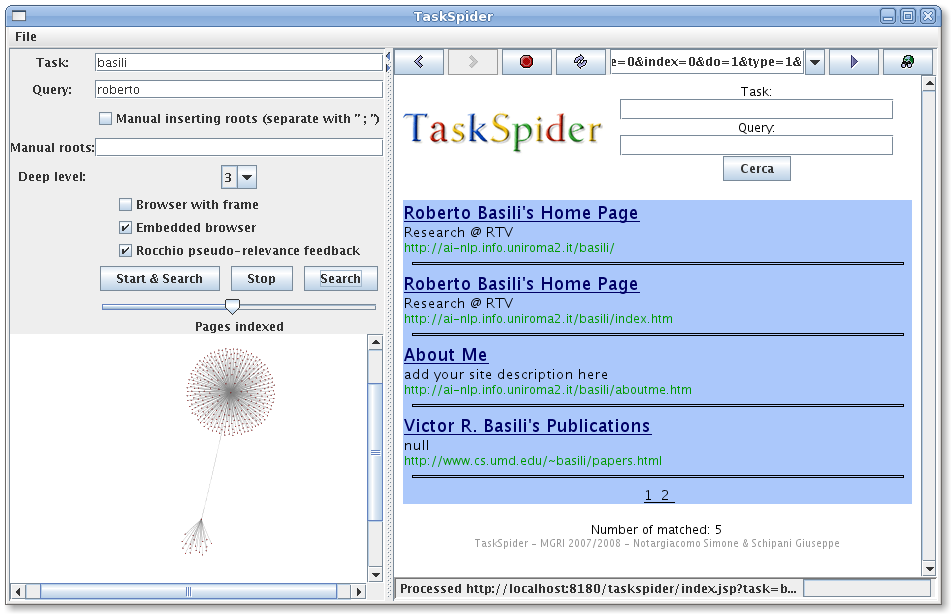
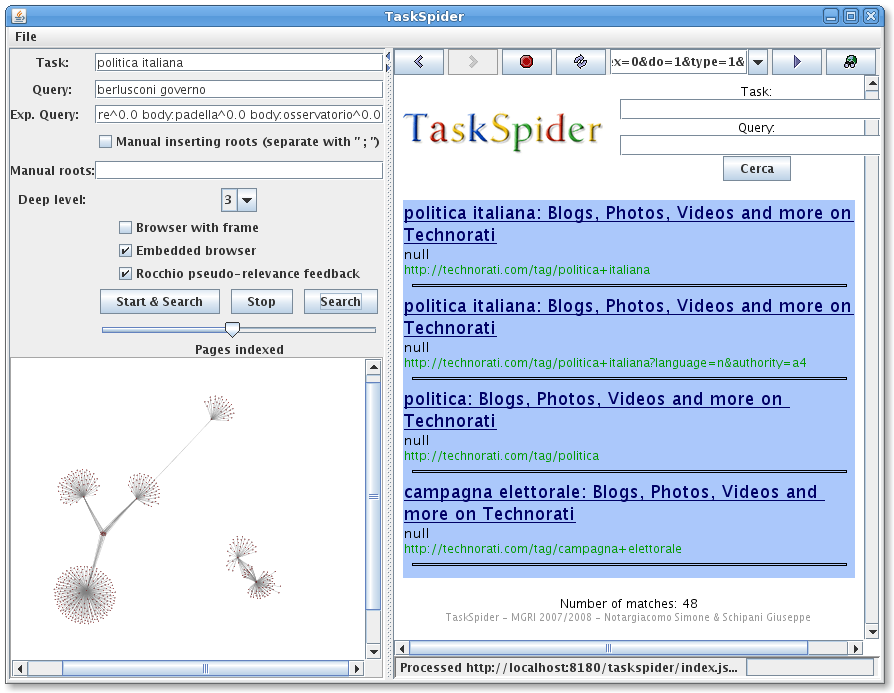
bugs fix, aggiornamento relazione

diff --git a/TaskSpider/docs/relazione/cap/retrival.tex b/TaskSpider/docs/relazione/cap/retrival.tex
@@ -64,9 +64,14 @@ Debug.println("Search with expanded query hits: "+result.length(), 1);
 Per evitare di incorrere in problemi come quelli appena citati si è realizzato un altro modulo di espansione query utilizzando il sistema di \var{Pseudo-relevance feedback Rocchio}. Tale metodo funziona nel seguente modo:
 \begin{enumerate}
 \item si prende la query desiderata dall'utente e si effettua la ricerca nell'indice;
-\item con i risultati ottenuti si effettua lo pseudo-relevance feedback considerando rilevanti i primi 10 documenti;
-\item si prendono i termini dei documenti rilevanti e si pesano secondo l'algoritmo;
-\item si aggiungono i termini pesati alla precedente query;
+\item con i risultati ottenuti si effettua lo pseudo-relevance feedback considerando rilevanti i primi N documenti ed irrilevanti gli ultimi M;
+\item si prendono i termini dei documenti rilevanti e si aggiungono alla query originale;
+\item si sottraggono i termini dei documenti non rilevanti;
 \item viene rieseguita una nuova ricerca con la nuova query.
 \end{enumerate}
-Con tale metodo è risultato un aumento della precisione nei documenti ritrovati, infatti a differenza del metodo Wordnet in questo caso è molto più difficile incorrere in ambiguità delle parole. Un punto a favore di Wordnet può andare sotto l'aspetto della espressività della query, questo perchè con il sistema \var{Rocchio} realizzato non possono essere fatte espansioni di query che specificano il campo (``URL'', ``title'' ecc.) del termine. Per evitare un'elevata complessità computazionale è stata impostata una espansione che considera soltanto il campo ``body''. Tale vincolo ha senso anche sotto altri aspetti, come il fatto che gran parte del contenuto informativo di una pagina web è proprio nel ``body''.
+La formula utilizzata per l'espansione è la seguente:
+$$
+\overrightarrow{q}_{m} = \alpha\overrightarrow{q} + \dfrac{\beta}{\vert D_{r}\vert}\sum_{\forall\overrightarrow{d_{j}}\in D_{r}}\overrightarrow{d_{j}} - \dfrac{\gamma}{\vert D_{n}\vert}\sum_{\forall\overrightarrow{d_{j}}\in D_{n}}\overrightarrow{d_{j}}
+$$
+In precedenza è stata implementata una variante di \var{Rocchio} aggiungendo ai nuovi termini della query il loro peso \var{tf-idf}; tale funzionalità è stata in seguito rimossa per attenersi alla formula originale.
+Il metodo originale ha consentito un aumento della precisione nei documenti ritrovati, infatti a differenza del metodo \var{Wordnet} è molto più difficile incorrere in ambiguità delle parole. Un punto a favore di \var{Wordnet} può andare sotto l'aspetto della espressività della query, questo perchè con il sistema \var{Rocchio} realizzato non possono essere fatte espansioni di query che specificano il campo (``URL'', ``title'' ecc.) del termine. Per evitare un'elevata complessità computazionale è stata impostata una espansione che considera soltanto il campo ``body''. Tale vincolo ha senso anche sotto altri aspetti, come il fatto che gran parte del contenuto informativo di una pagina web è proprio nel ``body''.

diff --git a/TaskSpider/src/taskspider/view/gui/MainFrame.java b/TaskSpider/src/taskspider/view/gui/MainFrame.java
@@ -179,13 +179,13 @@ public class MainFrame extends JFrame {
 								getGraph(); 
 								if(browserCheck.isSelected()) {
 									try {
-										htmlPanel.navigate(controller.getQueryString(taskField.getText(), queryField.getText(), frameCheck.isSelected() ? "1" : "0", typeCheck.isSelected() ? "1" : "0"));
+										htmlPanel.navigate(controller.getQueryString(taskField.getText(), queryField.getText(), frameCheck.isSelected() ? "1" : "0", typeCheck.isSelected() ? "1" : "0", "normal"));
 									} catch (MalformedURLException e1) {
 										e1.printStackTrace();
 									}
 								}
 								else {
-									BrowserControl.displayURL("", controller.getQueryString(taskField.getText(), queryField.getText(), frameCheck.isSelected() ? "1" : "0", typeCheck.isSelected() ? "1" : "0"));
+									BrowserControl.displayURL("", controller.getQueryString(taskField.getText(), queryField.getText(), frameCheck.isSelected() ? "1" : "0", typeCheck.isSelected() ? "1" : "0", "normal"));
 								}
 							}
 						}
@@ -617,17 +617,25 @@ public class MainFrame extends JFrame {
 						System.out.println("RESULT EXP: "+controller.search(taskField.getText(), getExpQueryField().getText(), -1));
 					else
 						System.out.println("RESULT: "+controller.search(taskField.getText(), queryField.getText(), typeCheck.isSelected() ? TermSearcher.ROCCHIO : TermSearcher.WORDNET));
-					getExpQueryField().setText(controller.getExpandedQuery().toString());
+					
 					if(browserCheck.isSelected()) {
 						try {
-							htmlPanel.navigate(controller.getQueryString(taskField.getText(), queryField.getText(), frameCheck.isSelected() ? "1" : "0", typeCheck.isSelected() ? "1" : "0"));
+							if(!getExpQueryField().getText().equals(""))
+								htmlPanel.navigate(controller.getQueryString(taskField.getText(), getExpQueryField().getText(), frameCheck.isSelected() ? "1" : "0", typeCheck.isSelected() ? "1" : "0", "expanded"));
+							else
+								htmlPanel.navigate(controller.getQueryString(taskField.getText(), queryField.getText(), frameCheck.isSelected() ? "1" : "0", typeCheck.isSelected() ? "1" : "0", "normal"));
 						} catch (MalformedURLException e1) {
 							e1.printStackTrace();
 						}
 					}
 					else {
-						BrowserControl.displayURL("", controller.getQueryString(taskField.getText(), queryField.getText(), frameCheck.isSelected() ? "1" : "0", typeCheck.isSelected() ? "1" : "0"));
+						if(!getExpQueryField().getText().equals(""))
+							BrowserControl.displayURL("", controller.getQueryString(taskField.getText(), getExpQueryField().getText(), frameCheck.isSelected() ? "1" : "0", typeCheck.isSelected() ? "1" : "0", "expanded"));
+						else
+							BrowserControl.displayURL("", controller.getQueryString(taskField.getText(), queryField.getText(), frameCheck.isSelected() ? "1" : "0", typeCheck.isSelected() ? "1" : "0", "normal"));
 					}
+					
+					getExpQueryField().setText(controller.getExpandedQuery().toString());
 					
 				}
 			});

diff --git a/TaskSpider/src/taskspider/bean/TaskBean.java b/TaskSpider/src/taskspider/bean/TaskBean.java
@@ -31,10 +31,9 @@ public class TaskBean{
 	}
 
 	/*
-	 * Do in input i parametri task e query, Qui dovresti fare l'operazione de
-	 * taskspider e poi riempirmi due vettori.
+	 * Da' in input i parametri task e query.
 	 */
-	public static String doSearch(String taskSearch, String querySearch, String redo_str, String typeStr){
+	public static String doSearch(String taskSearch, String querySearch, String redo_str, String typeStr, String exp){
 		int type = Integer.parseInt(typeStr);
 		int ret;
 		boolean redo;
@@ -46,7 +45,9 @@ public class TaskBean{
 			controller = new Controller();
 			if(taskSearch.indexOf("%20")>0)
 				taskSearch = taskSearch.replaceAll("%20", " ");
-			if((ret=controller.search(taskSearch, querySearch, type))>0) {
+			if(exp.equals("expanded"))
+				type=-1;
+			if((ret=controller.search(taskSearch, querySearch, type))>=0) {
 				total = ret;
 				if(taskSearch.indexOf(" ")>0)
 					taskSearch = taskSearch.replaceAll(" ", "%20");
@@ -65,15 +66,12 @@ public class TaskBean{
 		controller.interrupt();
 	}
 
-	/*
-	 * Con questo prendo un vettore di risultati e lo stampo a centro 
-	 * della pagina. Non paginiamo, li stampiamo tutti in sequenza.
-	 */
 	public static Vector<Document> getResults(String indexString){
 		int index = Integer.parseInt(indexString);
+		results = new Vector<Document>();
 		if(controller==null) {
 			System.out.println("NULL");
-			return new Vector<Document>();
+			return results;
 		}
 		if(index==0) {
 			System.out.println("here");
@@ -97,7 +95,6 @@ public class TaskBean{
 		else {
 			start = index*4;
 			end = start+4;
-			results = new Vector<Document>();
 			try {
 				for(int i=start; i<end && i<hits.length(); i++) {
 					if(hits.doc(i)!=null)
@@ -113,10 +110,6 @@ public class TaskBean{
 		return results;
 	} 
 
-	/*
-	 * Questo mi da i documenti per l'albero, purtoppo non lo posso provare
-	 * perch non riesco ad avere il sitema funzionante sul server tomcat
-	 */
 	public static Vector<Document> getTree(){
 		if(controller==null || total==0) {
 			Vector<Document> docs = new Vector<Document>();
@@ -144,6 +137,8 @@ public class TaskBean{
 	}
 
 	public static String printTail(String indexString) {
+		if(indexString==null)
+			return "";
 		int index = Integer.parseInt(indexString);
 		String ret = "";
 		for(int i=0; i<size; i++) {

diff --git a/TaskSpider/src/taskspider/controller/Controller.java b/TaskSpider/src/taskspider/controller/Controller.java
@@ -55,10 +55,10 @@ public class Controller extends Thread{
 		this.setDaemon(true);
 	}
 	
-	public String getQueryString(String task, String query, String frame, String type) {
+	public String getQueryString(String task, String query, String frame, String type, String exp) {
 		task = task.replaceAll(" ", "%20");
 		query = query.replaceAll(" ", "%20");
-		return this.jspUrl+"?task="+task+"&query="+query+"&frame="+frame+"&index=0&do=1&type="+type+"&";
+		return this.jspUrl+"?task="+task+"&query="+query+"&frame="+frame+"&index=0&do=1&type="+type+"&exp="+exp+"&";
 	}
 	
 	public void setMessage(JLabel message) {

diff --git a/TaskSpider/docs/relazione/relazione.tex b/TaskSpider/docs/relazione/relazione.tex
@@ -79,6 +79,7 @@
 \include{cap/retrival}
 \include{cap/view}
 \include{cap/performance}
+\include{cap/conclusioni}
 
 %\listoftables
 \listoffigures
